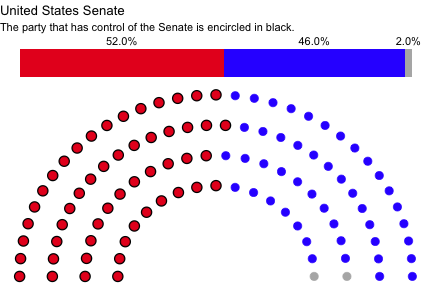
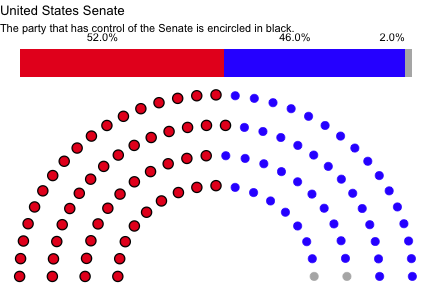
fix error in readme

Changed region(s): [[0.0, 0.0625, 0.7824, 0.1562], [0.8727, 0.0938, 0.9931, 0.1562]]

diff --git a/README.md b/README.md
@@ -10,6 +10,7 @@ pagetitle: README
 
 
 # Status
+
 [![Build Status](https://travis-ci.org/RobWHickman/ggparliament.png)](https://travis-ci.org/RobWHickman/ggparliament)
 ![CRAN Status](https://www.r-pkg.org/badges/version/ggparliament)
 ![Downloads](https://cranlogs.r-pkg.org/badges/grand-total/ggparliament)
@@ -152,19 +153,10 @@ senate <- ggplot(us_senate, aes(x, y, colour = party_long)) +
        subtitle = "The party that has control of the Senate is encircled in black.") +
   scale_colour_manual(values = us_senate$colour,
                       limits = us_senate$party_long)
-```
-
-```
-## Error in loadNamespace(name): there is no package called 'ggrepel'
-```
-
-```r
 senate 
 ```
 
-```
-## Error in eval(expr, envir, enclos): object 'senate' not found
-```
+![plot of chunk unnamed-chunk-7](figure/unnamed-chunk-7-1.png)
 
 
 ### Plot of German Bundestag
